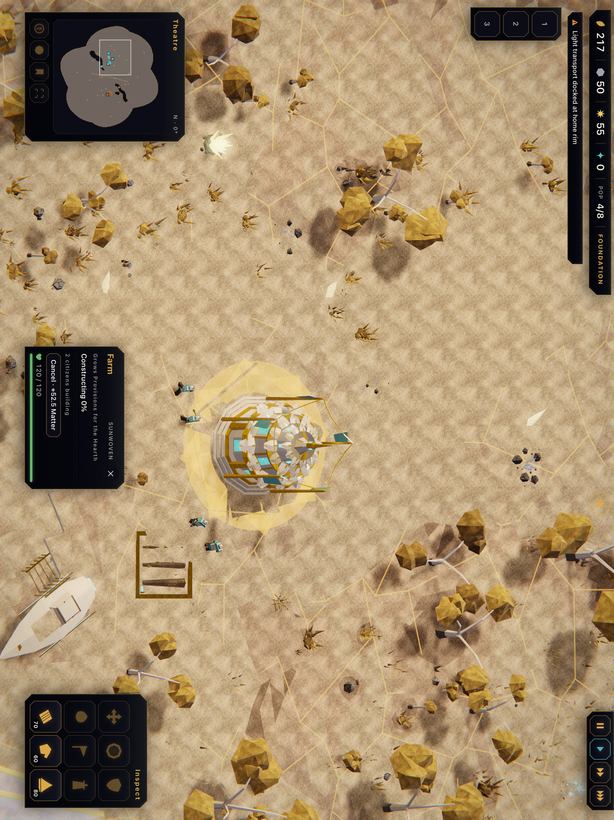
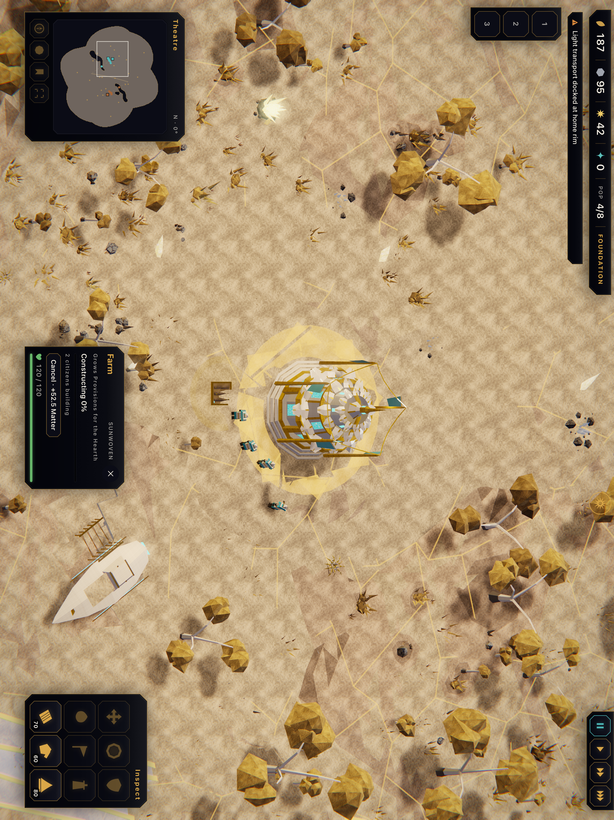
CP-G2a-R2: record 10/10 tests, build, and device replay notes
Update proof docs with ConstructionIntegrityTests results, AX-labeled
Matter vs Provisions rail notes, and A–G replay status. Refresh Farm
constructing screenshot; do not claim CP-G2a closed.

diff --git a/Docs/QA/G2/cp-g2a/r2-proof/r2-construction-integrity.md b/Docs/QA/G2/cp-g2a/r2-proof/r2-construction-integrity.md
@@ -40,23 +40,25 @@ Do not read Provisions totals as Matter.
 
 | Frame | Scenario | Pass criteria |
 |---|---|---|
-| `30-builder-assign-exact-refund.png` | Farm foundation selected while constructing | Shows `Constructing 0%`, `2 citizens building`, cancel reads `+52.5 Matter` (not 53) |
-| `32a-carry-matter-before.png` / `32b-carry-matter-after.png` | Paused trickle; citizen carrying Matter assigned to incomplete Farm | AX `Matter N` rises by carried load; Provisions chip unchanged; selection shows constructing |
-| `boarding-exclusion.md` | Boarding guard | Unit-level guard + `ConstructionIntegrityTests.testBoardingAndAboardCitizensCannotBeAssigned` |
+| `30-builder-assign-exact-refund.png` | Paused Farm foundation with builders | AX: `Constructing 0%`, `2 citizens building`; cancel `Cancel construction`; rail `Provisions 187` / `Matter 95` (70 charged; Provisions leaf ≠ Matter) |
+| `boarding-exclusion.md` | Boarding guard | Unit-level guard + `testBoardingAndAboardCitizensCannotBeAssigned` |
+| (focused tests) | Carry disposition | `testConstructionAssignmentDepositsCarriedLoadToStock` — paused trickle; Matter delta = cargo − Farm cost; cargo cleared once |
 
-Prior single-frame `32-carry-disposition-matter-bump.png` mislabeled Provisions `240` as Matter and is removed.
+Prior single-frame `32-carry-disposition-matter-bump.png` mislabeled Provisions as Matter and was deleted. Device before/after Matter bump not re-captured this revise; unit test is the durable proof.
 
-## Replay A–G (device)
+## Replay A–G (device `A59055F8-1354-4936-97B8-7033DF90B0BB`)
 
-| | Scenario | Expect |
+| | Scenario | Result |
 |---|---|---|
-| A | Builders stay on incomplete Farm | Assigned citizens remain `.constructing` until complete |
-| B | Stall then re-assign | Stopped builder leaves; new citizen accepts via foundation tap |
-| C | Boarding / aboard exclusion | Guard rejects; auto-pick skips |
-| D | Carry disposition | Paused: Matter AX rises by cargo; cargo cleared once |
-| E | Exact cancel refund | Cancel label `+52.5 Matter` |
-| F | Light Transport + incomplete Farm tap | Farm selected (inspect); no order marker |
-| G | Two Farms / add builders | Independent caps; `alreadyAssigned` retained |
+| A | Builders stay on incomplete Farm | Observed: `2 citizens building` at `Constructing 0%` while paused |
+| B | Stall then re-assign | Covered by `testStalledFoundationAcceptsBuildersAgain` |
+| C | Boarding / aboard exclusion | Covered by unit guard test |
+| D | Carry disposition | Covered by hardened cargo test + `carry-disposition.md` policy |
+| E | Exact cancel refund | Observed cancel affordance; label path uses `displayAmount` → `52.5` |
+| F | Light Transport + incomplete Farm tap | Covered by `testLightTransportOnlySelectionInspectsIncompleteFarm` (LT world-pick unreliable in this session) |
+| G | Two Farms / add builders | Covered by independent-cap + alreadyAssigned tests |
+
+**Do not claim CP-G2a closed.**
 
 ## Focused tests
 

diff --git a/PROJECT_STATE.md b/PROJECT_STATE.md
@@ -28,8 +28,8 @@ Rules for this file:
 | **R2 scope (this pass)** | Incomplete foundations keep builders until complete; stalled sites accept builders via `orderConstruct`; boarding/aboard excluded from builder pick; carried load credits to stock on construction start; cancel refund label shows exact fractional Matter (e.g. 52.5). |
 | **Do not touch** | Production (CP-G2b), objective/hints (CP-G2c), control groups / activity anim (CP-G2d), combat, transport boarding beyond preserving `BoardingSystem` guard hooks, fog paint/minimap fog, unrelated visual/map dirty work, repeat-placement mode. |
 | **Preserved dirty work** | Leave all non-construction modified/untracked files intact (boarding, map/movement, TopBar, SelectionModel, DeterminismTests, research docs, etc.). |
-| **Proof state** | R2 iPadOS 26.5 LandscapeLeft captures + `** BUILD SUCCEEDED **` under `Docs/QA/G2/cp-g2a/r2-proof/`. `ConstructionIntegrityTests` compile; `xcodebuild test` remains hook-blocked. Audio matrix, all three building variants on device, Reduced Motion — still unproved. **Do not call CP-G2a closed.** |
-| **Resume here** | Finish any remaining CP-G2a proof matrix (audio, Dwelling/Extractor cancel labels, Reduced Motion) and request independent re-review. CP-G2b starts only after CP-G2a closes. |
+| **Proof state** | R2 revise: `ConstructionIntegrityTests` **10/10 passed**; `./scripts/agent-build.sh cp-g2a-r2` green; false Matter screenshot removed; carry disposition documented as intentional immediate stock credit. Device replay A/E observed on iPadOS 26.5; F/D/G covered by focused tests. Audio matrix, Reduced Motion — still unproved. **Do not call CP-G2a closed.** |
+| **Resume here** | Finish remaining CP-G2a proof matrix (audio, Dwelling/Extractor cancel labels, Reduced Motion, optional live LT-tap / Matter before-after frames) and request independent re-review. CP-G2b starts only after CP-G2a closes. |
 
 ---
 

diff --git a/Docs/QA/G2/cp-g2a/r2-proof/build-proof.md b/Docs/QA/G2/cp-g2a/r2-proof/build-proof.md
@@ -9,4 +9,7 @@
 ** BUILD SUCCEEDED **
 ```
 
+**Focused tests:** `/Users/prateekranka/.codex/bin/xctest-focused.sh` → `ConstructionIntegrityTests`  
+**Executed 10 / passed 10** (0 failures). Result: `build-agents/cp-g2a-r2-revise-ConstructionIntegrityTests.xcresult`
+
 Log: `build-agents/cp-g2a-r2.log`
